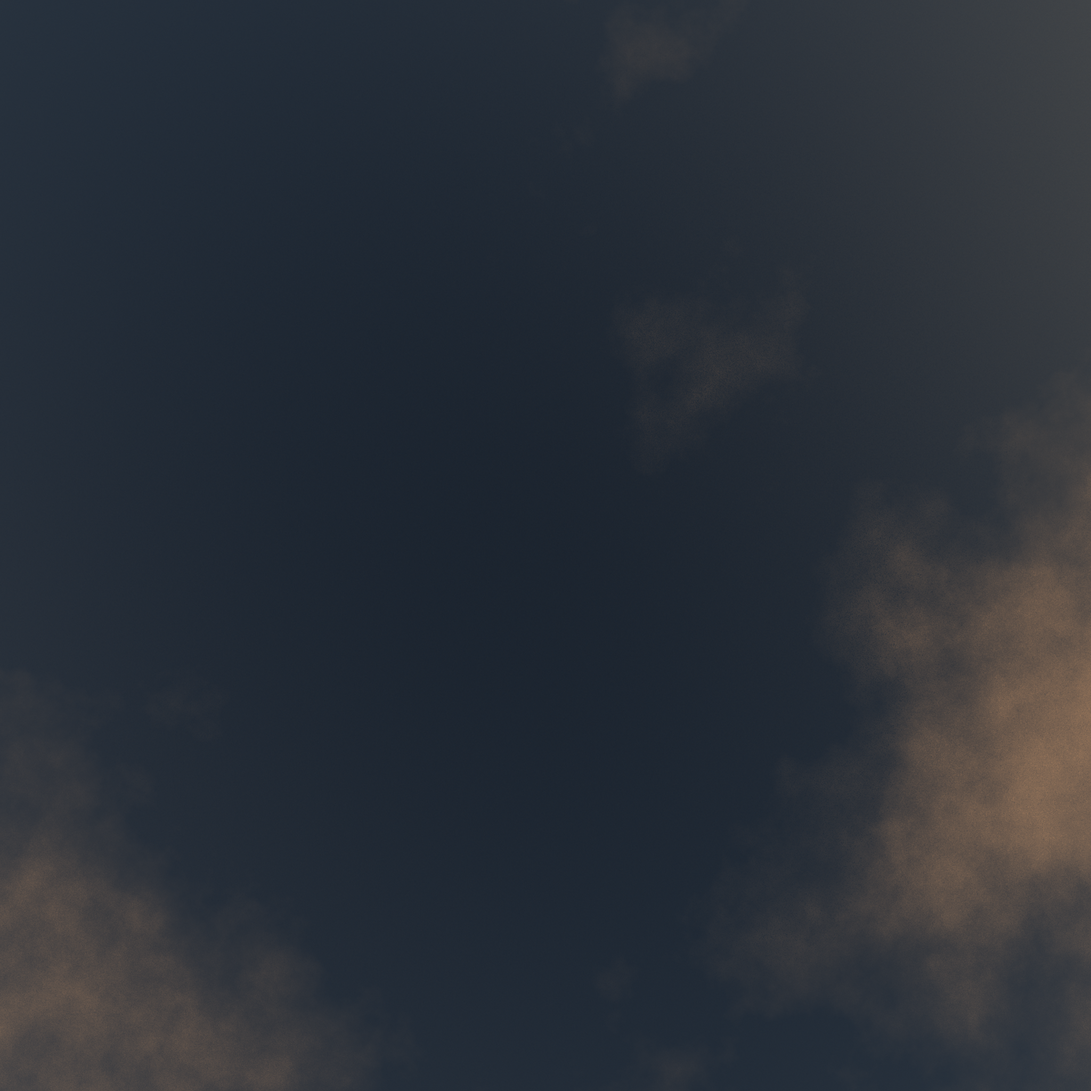
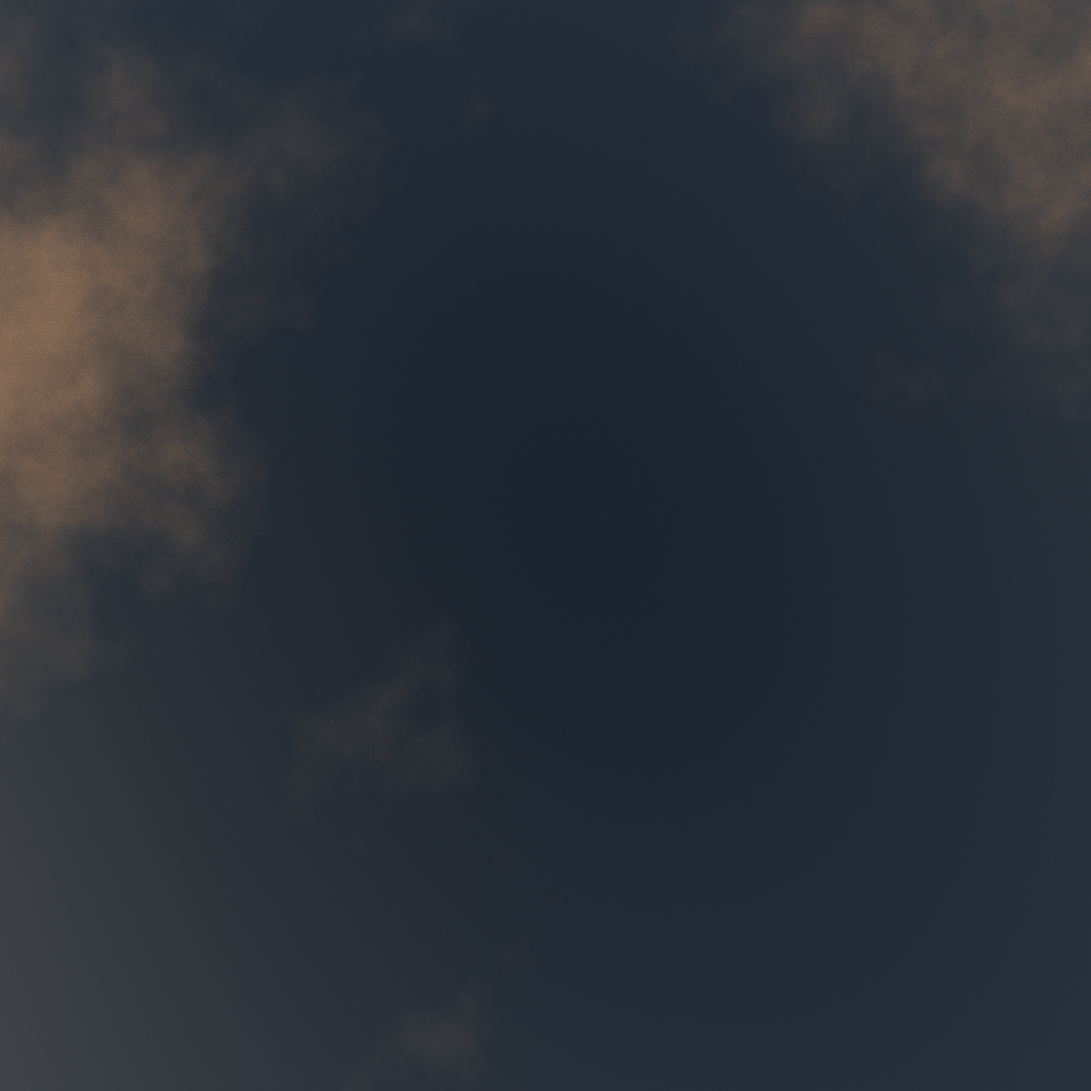
Complete skybox implementation

diff --git a/src/ddd/main.cpp b/src/ddd/main.cpp
@@ -38,26 +38,43 @@
 #include "stb_image.h"
 #pragma GCC diagnostic pop
 
+// TODO: clean this mess up
+// - seperate skybox file
+// - seperate mesh file (make it a class)
+// - seperate light file (make it a class, implement shadow there as well)
+// - seperate camera file (make it a class)
+// - don't create a pipeline for every object but instead e.g. have
+//   a static method that initializes the pipeline
+
 class Skybox {
 public:
-	Skybox(vpp::Device& dev, vk::RenderPass rp,
+	void init(vpp::Device& dev, vk::RenderPass rp,
 		vk::SampleCountBits samples);
-
+	void updateDevice(const nytl::Mat4f& viewProj);
 	void render(vk::CommandBuffer cb);
 
 protected:
 	vpp::Device* dev_;
 	vpp::ViewableImage cubemap_;
-	vk::Sampler sampler_;
+	vpp::Sampler sampler_;
 	vpp::SubBuffer indices_;
+	vpp::SubBuffer ubo_;
 
-	vpp::TrDs ds_;
 	vpp::TrDsLayout dsLayout_;
+	vpp::TrDs ds_;
 	vpp::PipelineLayout pipeLayout_;
 	vpp::Pipeline pipe_;
 };
 
-Skybox::Skybox(vpp::Device& dev, vk::RenderPass rp,
+// TODO: allow loading panorama data
+// https://stackoverflow.com/questions/29678510/convert-21-equirectangular-panorama-to-cube-map
+// load cubemap
+
+// XXX: the way vulkan handles cubemap samplers and image coorindates,
+// top and bottom usually have to be rotated 180 degrees (or at least
+// from the skybox set i tested with, see /assets/skyboxset1, those
+// were rotated manually to fit)
+void Skybox::init(vpp::Device& dev, vk::RenderPass rp,
 		vk::SampleCountBits samples) {
 	// ds layout
 	auto bindings = {
@@ -72,16 +89,17 @@ Skybox::Skybox(vpp::Device& dev, vk::RenderPass rp,
 	dsLayout_ = {dev, bindings};
 	pipeLayout_ = {dev, {dsLayout_}, {}};
 
-	vpp::ShaderModule vertShader(dev, model_vert_data);
-	vpp::ShaderModule fragShader(dev, model_frag_data);
+	vpp::ShaderModule vertShader(dev, skybox_vert_data);
+	vpp::ShaderModule fragShader(dev, skybox_frag_data);
 	vpp::GraphicsPipelineInfo gpi {rp, pipeLayout_, {{
 		{vertShader, vk::ShaderStageBits::vertex},
 		{fragShader, vk::ShaderStageBits::fragment},
 	}}, 0, samples};
 
 	// depth test disabled by default
-	gpi.rasterization.cullMode = vk::CullModeBits::back;
-	gpi.rasterization.frontFace = vk::FrontFace::counterClockwise;
+	gpi.assembly.topology = vk::PrimitiveTopology::triangleList;
+	// gpi.rasterization.cullMode = vk::CullModeBits::back;
+	// gpi.rasterization.frontFace = vk::FrontFace::counterClockwise;
 
 	vk::Pipeline vkpipe;
 	vk::createGraphicsPipelines(dev, {}, 1, gpi.info(), NULL, vkpipe);
@@ -101,9 +119,6 @@ Skybox::Skybox(vpp::Device& dev, vk::RenderPass rp,
 	};
 	vpp::writeStaging430(indices_, vpp::raw(*indices.data(), 36u));
 
-	// TODO: allow loading panorama data
-	// https://stackoverflow.com/questions/29678510/convert-21-equirectangular-panorama-to-cube-map
-	// load cubemap
 	auto base = std::string("../assets/skyboxset1/SunSet/SunSet");
 	// https://www.khronos.org/opengl/wiki/Template:Cubemap_layer_face_ordering
 	const char* names[] = {
@@ -125,7 +140,7 @@ Skybox::Skybox(vpp::Device& dev, vk::RenderPass rp,
 		auto filename = base + names[i] + suffix;
 		int iwidth, iheight, channels;
 		unsigned char* data = stbi_load(filename.c_str(), &iwidth, &iheight,
-			&channels, 3);
+			&channels, 4);
 		if(!data) {
 			dlg_warn("Failed to open texture file {}", filename);
 
@@ -136,20 +151,22 @@ Skybox::Skybox(vpp::Device& dev, vk::RenderPass rp,
 			throw std::runtime_error(err);
 		}
 
+		dlg_assert(iwidth > 0 && iheight > 0);
 		if(width == 0 || height == 0) {
 			width = iwidth;
 			height = iheight;
+			dlg_info("skybox: {} {}", width, height);
 		} else {
 			dlg_assert(int(width) == iwidth);
 			dlg_assert(int(height) == iheight);
 		}
 
-		dlg_assert(width > 0 && height > 0);
 		faceData[i] = reinterpret_cast<const std::byte*>(data);
+		dlg_info("{}: {} ({})", i, (int*) faceData[i], (int) faceData[i][0]);
 	}
 
 	// free data
-	nytl::ScopeGuard([&]{
+	nytl::ScopeGuard guard([&]{
 		for(auto i = 0u; i < 6u; ++i) {
 			std::free(const_cast<std::byte*>(faceData[i]));
 		}
@@ -163,7 +180,8 @@ Skybox::Skybox(vpp::Device& dev, vk::RenderPass rp,
 	cubemap_ = {dev, imgi};
 
 	// buffer
-	auto totalSize = 6u * width * height * 3u;
+	// XXX: this might get large
+	auto totalSize = 6u * width * height * 4u;
 	auto stage = vpp::SubBuffer(dev.bufferAllocator(), totalSize,
 		vk::BufferUsageBits::transferSrc, 0u, dev.hostMemoryTypes());
 
@@ -180,8 +198,8 @@ Skybox::Skybox(vpp::Device& dev, vk::RenderPass rp,
 		copies[i].imageSubresource.baseArrayLayer = i;
 		copies[i].imageSubresource.layerCount = 1u;
 		copies[i].imageSubresource.mipLevel = 0u;
-		offset += width * height * 3u;
-		doi::write(span, faceData[i], width * height * 3u);
+		offset += width * height * 4u;
+		doi::write(span, faceData[i], width * height * 4u);
 	}
 
 	map = {};
@@ -190,7 +208,7 @@ Skybox::Skybox(vpp::Device& dev, vk::RenderPass rp,
 	auto cb = dev.commandAllocator().get(qs.queue().family());
 	vk::beginCommandBuffer(cb, {});
 	vpp::changeLayout(cb, cubemap_.image(), vk::ImageLayout::undefined,
-		{}, {}, vk::ImageLayout::transferDstOptimal,
+		vk::PipelineStageBits::topOfPipe, {}, vk::ImageLayout::transferDstOptimal,
 		vk::PipelineStageBits::transfer, vk::AccessBits::transferWrite,
 		{vk::ImageAspectBits::color, 0, 1, 0, 6u});
 	vk::cmdCopyBufferToImage(cb, stage.buffer(), cubemap_.image(),
@@ -207,6 +225,43 @@ Skybox::Skybox(vpp::Device& dev, vk::RenderPass rp,
 	si.commandBufferCount = 1u;
 	si.pCommandBuffers = &cb.vkHandle();
 	qs.wait(qs.add(si));
+
+	// ubo
+	auto uboSize = sizeof(nytl::Mat4f);
+	ubo_ = {dev.bufferAllocator(), uboSize, vk::BufferUsageBits::uniformBuffer,
+		0u, dev.hostMemoryTypes()};
+
+	// sampler
+	vk::SamplerCreateInfo sci {};
+	sci.magFilter = vk::Filter::linear;
+	sci.minFilter = vk::Filter::linear;
+	sci.minLod = 0.0;
+	sci.maxLod = 0.25;
+	sci.mipmapMode = vk::SamplerMipmapMode::nearest;
+	sampler_ = {dev, sci};
+
+	// ds
+	ds_ = {dev.descriptorAllocator(), dsLayout_};
+	vpp::DescriptorSetUpdate dsu(ds_);
+	dsu.uniform({{ubo_.buffer(), ubo_.offset(), ubo_.size()}});
+	dsu.imageSampler({{sampler_, cubemap_.vkImageView(),
+		vk::ImageLayout::shaderReadOnlyOptimal}});
+	dsu.apply();
+}
+
+void Skybox::render(vk::CommandBuffer cb) {
+	vk::cmdBindDescriptorSets(cb, vk::PipelineBindPoint::graphics,
+		pipeLayout_, 0, {ds_}, {});
+	vk::cmdBindIndexBuffer(cb, indices_.buffer(),
+		indices_.offset(), vk::IndexType::uint16);
+	vk::cmdBindPipeline(cb, vk::PipelineBindPoint::graphics, pipe_);
+	vk::cmdDrawIndexed(cb, 36, 1, 0, 0, 0);
+}
+
+void Skybox::updateDevice(const nytl::Mat4f& viewProj) {
+	auto map = ubo_.memoryMap();
+	auto span = map.span();
+	doi::write(span, viewProj);
 }
 
 // Matches glsl struct
@@ -235,6 +290,13 @@ struct Camera {
 		float far = 30.f;
 	} perspective;
 };
+
+// camera matrix that does take movement into account
+auto fixedMatrix(Camera& c) {
+	auto& p = c.perspective;
+	auto mat = doi::perspective3RH<float>(p.fov, p.aspect, p.near, p.far);
+	return mat * doi::lookAtRH({}, c.dir, c.up);
+}
 
 auto matrix(Camera& c) {
 	// auto mat = doi::ortho3Sym<float>(4.f, 4.f, 0.1f, 10.f);
@@ -400,9 +462,11 @@ public:
 		lights_.back().pd = {5.8f, 4.0f, 4.f};
 		lights_.back().type = Light::Type::point;
 
+
 		// === Init pipeline ===
 		auto& dev = vulkanDevice();
 		auto hostMem = dev.hostMemoryTypes();
+		skybox_.init(dev, renderer().renderPass(), renderer().samples());
 
 		// shadow sampler
 		vk::SamplerCreateInfo sci {};
@@ -807,7 +871,7 @@ public:
 	}
 
 	void render(vk::CommandBuffer cb) override {
-		// draw
+		skybox_.render(cb);
 		vk::cmdBindPipeline(cb, vk::PipelineBindPoint::graphics, pipe_);
 		vk::cmdBindDescriptorSets(cb, vk::PipelineBindPoint::graphics,
 			pipeLayout_, 0, {sceneDs_}, {});
@@ -935,6 +999,8 @@ public:
 			doi::skip(span, sizeof(Light) * maxLightSize);
 			doi::write(span, camera_.pos);
 			doi::write(span, std::uint32_t(lights_.size()));
+
+			skybox_.updateDevice(fixedMatrix(camera_));
 		}
 
 		if(updateLights_) {
@@ -1002,6 +1068,8 @@ protected:
 		vpp::TrDs ds;
 		vpp::SubBuffer ubo; // holding the light view matrix
 	} shadow_;
+
+	Skybox skybox_;
 };
 
 int main(int argc, const char** argv) {
